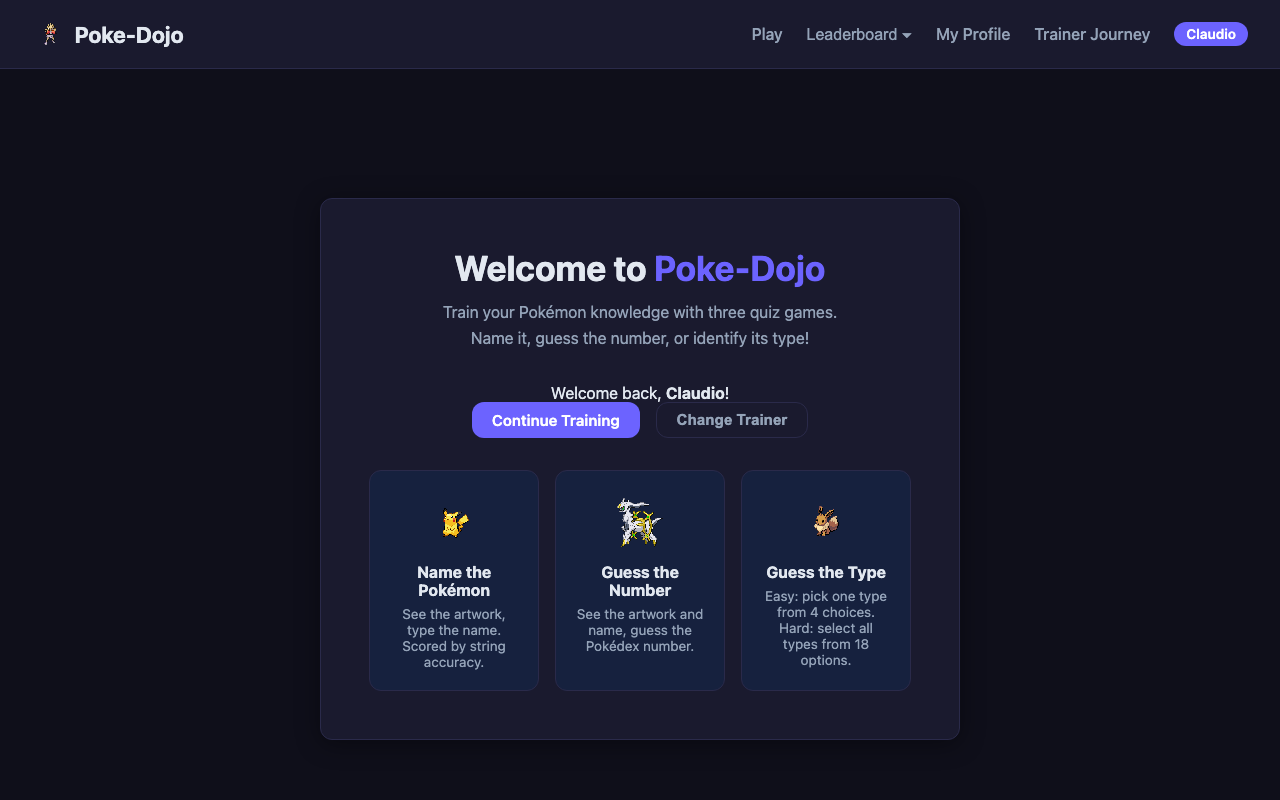
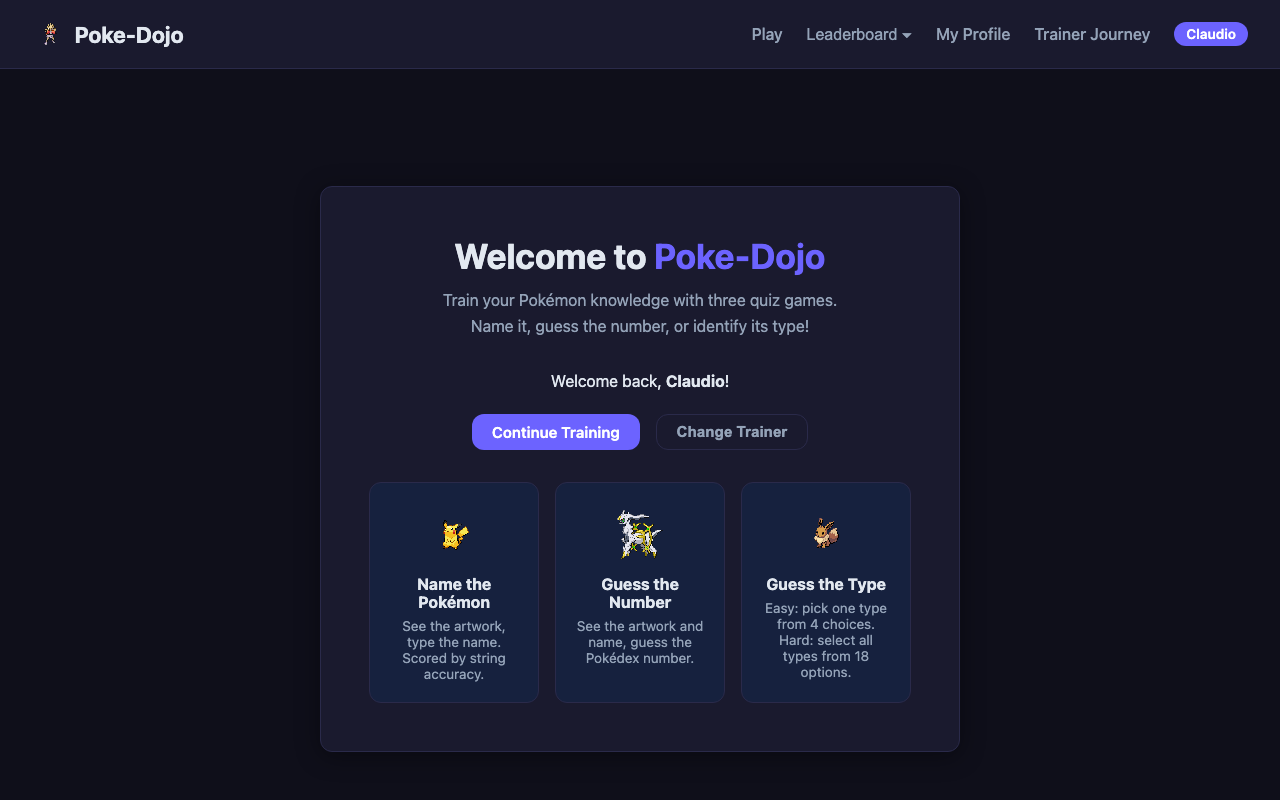
Profile AI sort, welcome gap, VS/Solo sprite layout
- Profile: sort by AI (SHAP) bars when available; fallback to accuracy sort
- Welcome: add margin-top to hero-actions so gap appears between greeting and CTA
- Game sidebar: VS Mode / Solo Challenge sprites now inline-left of text, matching Dojo mode button layout

diff --git a/static/css/style.css b/static/css/style.css
@@ -137,7 +137,7 @@ a:hover { color: var(--accent-hover); }
 .hint { font-size: 0.85rem; color: var(--text-muted); }
 .hint.error { color: var(--red); }
 
-.hero-actions { display: flex; gap: 1rem; justify-content: center; margin-bottom: 2rem; }
+.hero-actions { display: flex; gap: 1rem; justify-content: center; margin-top: 1.5rem; margin-bottom: 2rem; }
 
 .game-preview {
   display: grid;
@@ -1310,9 +1310,9 @@ a:hover { color: var(--accent-hover); }
 /* Sidebar buttons */
 .battle-btn {
   display: flex;
-  flex-direction: column;
-  align-items: flex-start;
-  gap: 0.15rem;
+  flex-direction: row;
+  align-items: center;
+  gap: 0.5rem;
   text-decoration: none;
   color: var(--text);
   padding: 0.6rem 0.85rem;
@@ -1322,10 +1322,11 @@ a:hover { color: var(--accent-hover); }
   transition: background 0.15s, border-color 0.15s;
 }
 .battle-btn:hover { background: rgba(99, 102, 241, 0.18); border-color: #6366f1; }
-.battle-btn-icon { font-size: 1.1rem; margin-right: 0.4rem; display: inline-flex; align-items: center; gap: 2px; }
-.battle-btn-sprite { width: 20px; height: 20px; image-rendering: pixelated; vertical-align: middle; }
+.battle-btn-icon { display: inline-flex; align-items: center; gap: 2px; flex-shrink: 0; }
+.battle-btn-sprite { width: 24px; height: 24px; image-rendering: pixelated; }
 .battle-btn-sprite-flip { transform: scaleX(-1); }
-.battle-btn-sub { font-size: 0.65rem; color: var(--text-muted); margin-left: 1.6rem; }
+.battle-btn-text { display: flex; flex-direction: column; line-height: 1.3; }
+.battle-btn-sub { font-size: 0.65rem; color: var(--text-muted); }
 
 /* ── Arena page layout ── */
 .arena-page {

diff --git a/app/templates/profile.html b/app/templates/profile.html
@@ -231,8 +231,14 @@
   function renderSection(sectionKey) {
     const meta  = SECTION_META[sectionKey];
     const items = [...cachedBreakdown.breakdown[meta.dataKey]];
-    // Always sort hardest-first (lowest accuracy first)
-    items.sort((a, b) => a.avg - b.avg);
+    const hasShap = items.some(it => it.shap != null);
+    if (hasShap) {
+      // Sort by AI prediction: most "hard" (highest positive SHAP) first
+      items.sort((a, b) => (b.shap ?? -Infinity) - (a.shap ?? -Infinity));
+    } else {
+      // Fallback: sort hardest-first by accuracy (lowest first)
+      items.sort((a, b) => a.avg - b.avg);
+    }
     makeRows(items, meta.containerId, meta.hasIcon);
   }
 

diff --git a/app/templates/game.html b/app/templates/game.html
@@ -34,12 +34,12 @@
       <!-- BATTLE ARENA section -->
       <div class="game-section-label battle-label">BATTLE ARENA</div>
       <a href="/battle-arena?mode=vs" class="mode-btn battle-btn" id="btn-vs">
-        <span class="battle-btn-icon"><img src="https://raw.githubusercontent.com/PokeAPI/sprites/master/sprites/pokemon/11.png" class="battle-btn-sprite" alt="">⚔<img src="https://raw.githubusercontent.com/PokeAPI/sprites/master/sprites/pokemon/11.png" class="battle-btn-sprite battle-btn-sprite-flip" alt=""></span>VS Mode
-        <span class="battle-btn-sub">2 players, same keyboard</span>
+        <span class="battle-btn-icon"><img src="https://raw.githubusercontent.com/PokeAPI/sprites/master/sprites/pokemon/11.png" class="battle-btn-sprite" alt="">⚔<img src="https://raw.githubusercontent.com/PokeAPI/sprites/master/sprites/pokemon/11.png" class="battle-btn-sprite battle-btn-sprite-flip" alt=""></span>
+        <span class="battle-btn-text">VS Mode<span class="battle-btn-sub">2 players, same keyboard</span></span>
       </a>
       <a href="/battle-arena?mode=single" class="mode-btn battle-btn" id="btn-solo">
-        <span class="battle-btn-icon"><img src="https://raw.githubusercontent.com/PokeAPI/sprites/master/sprites/pokemon/150.png" class="battle-btn-sprite" alt=""></span>Solo Challenge
-        <span class="battle-btn-sub">Endless, beat your shadow</span>
+        <img src="https://raw.githubusercontent.com/PokeAPI/sprites/master/sprites/pokemon/150.png" class="battle-btn-sprite" alt="">
+        <span class="battle-btn-text">Solo Challenge<span class="battle-btn-sub">Endless, beat your shadow</span></span>
       </a>
 
     </div>